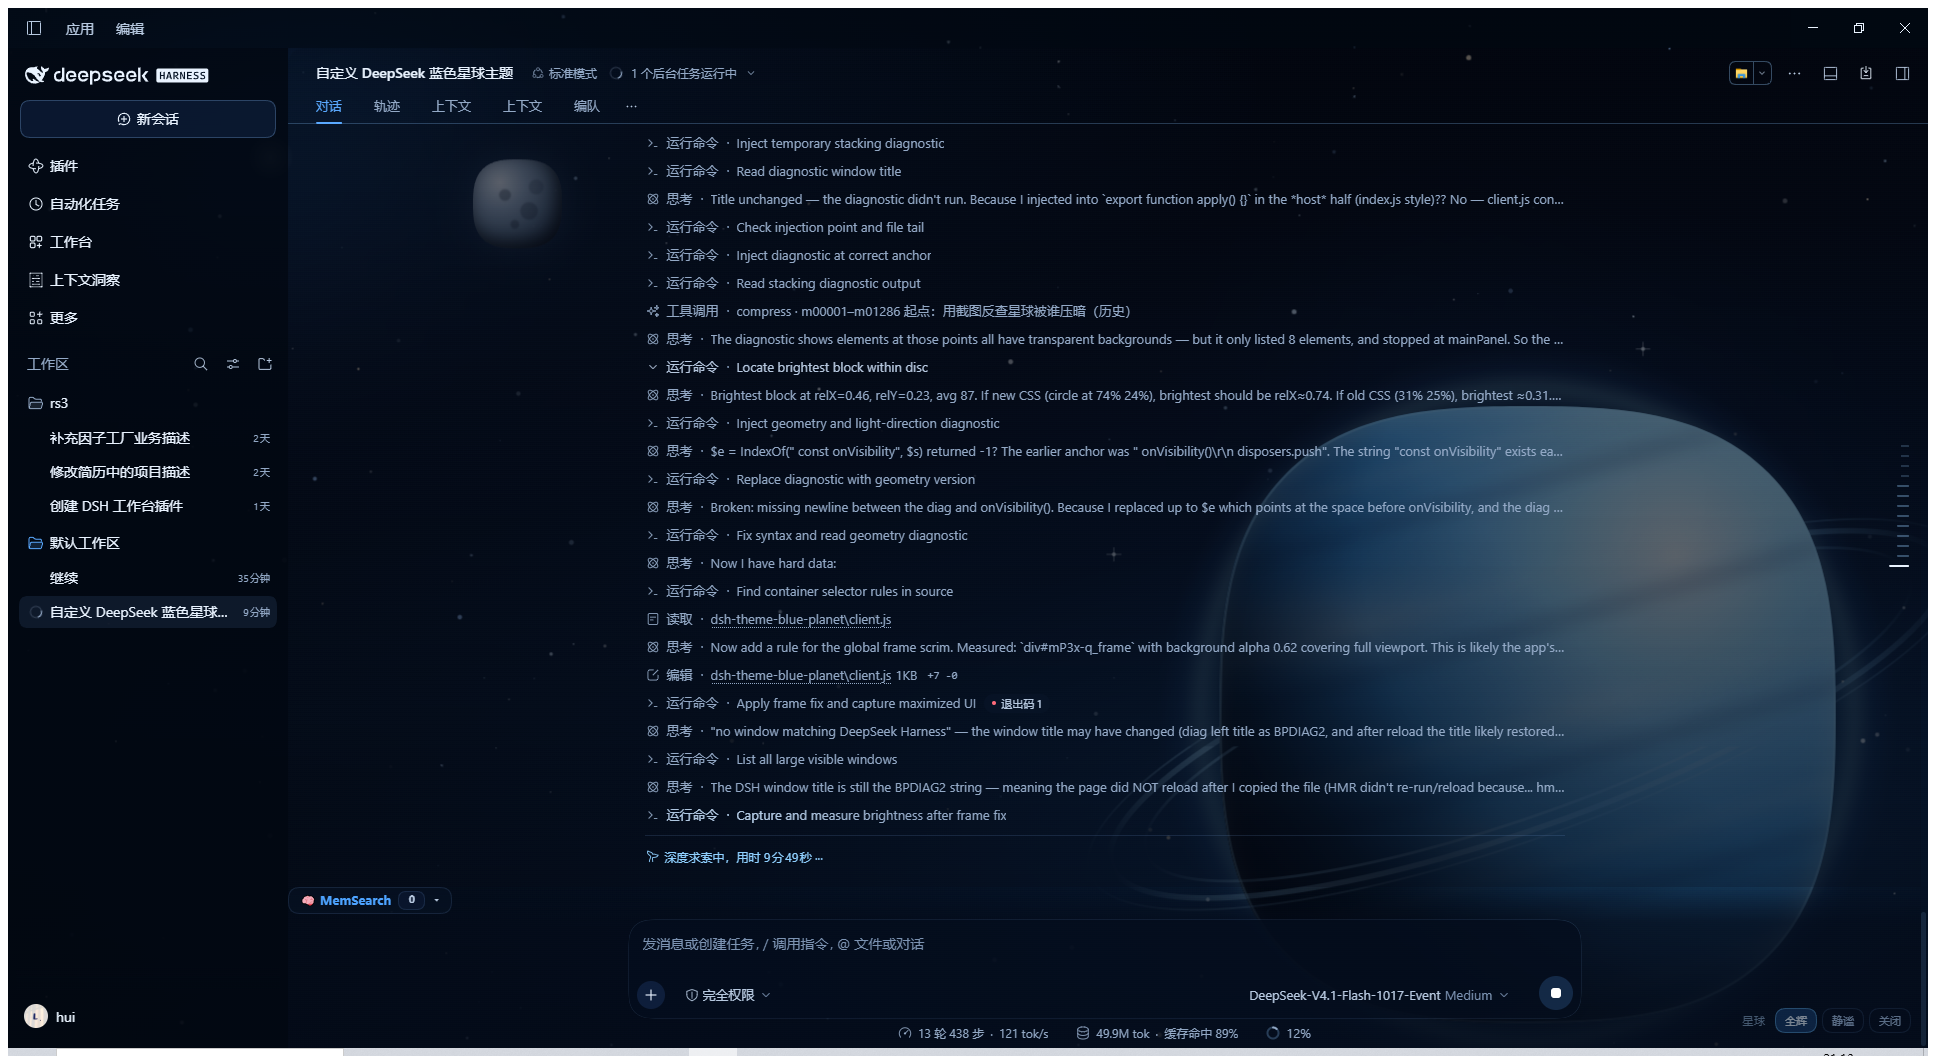
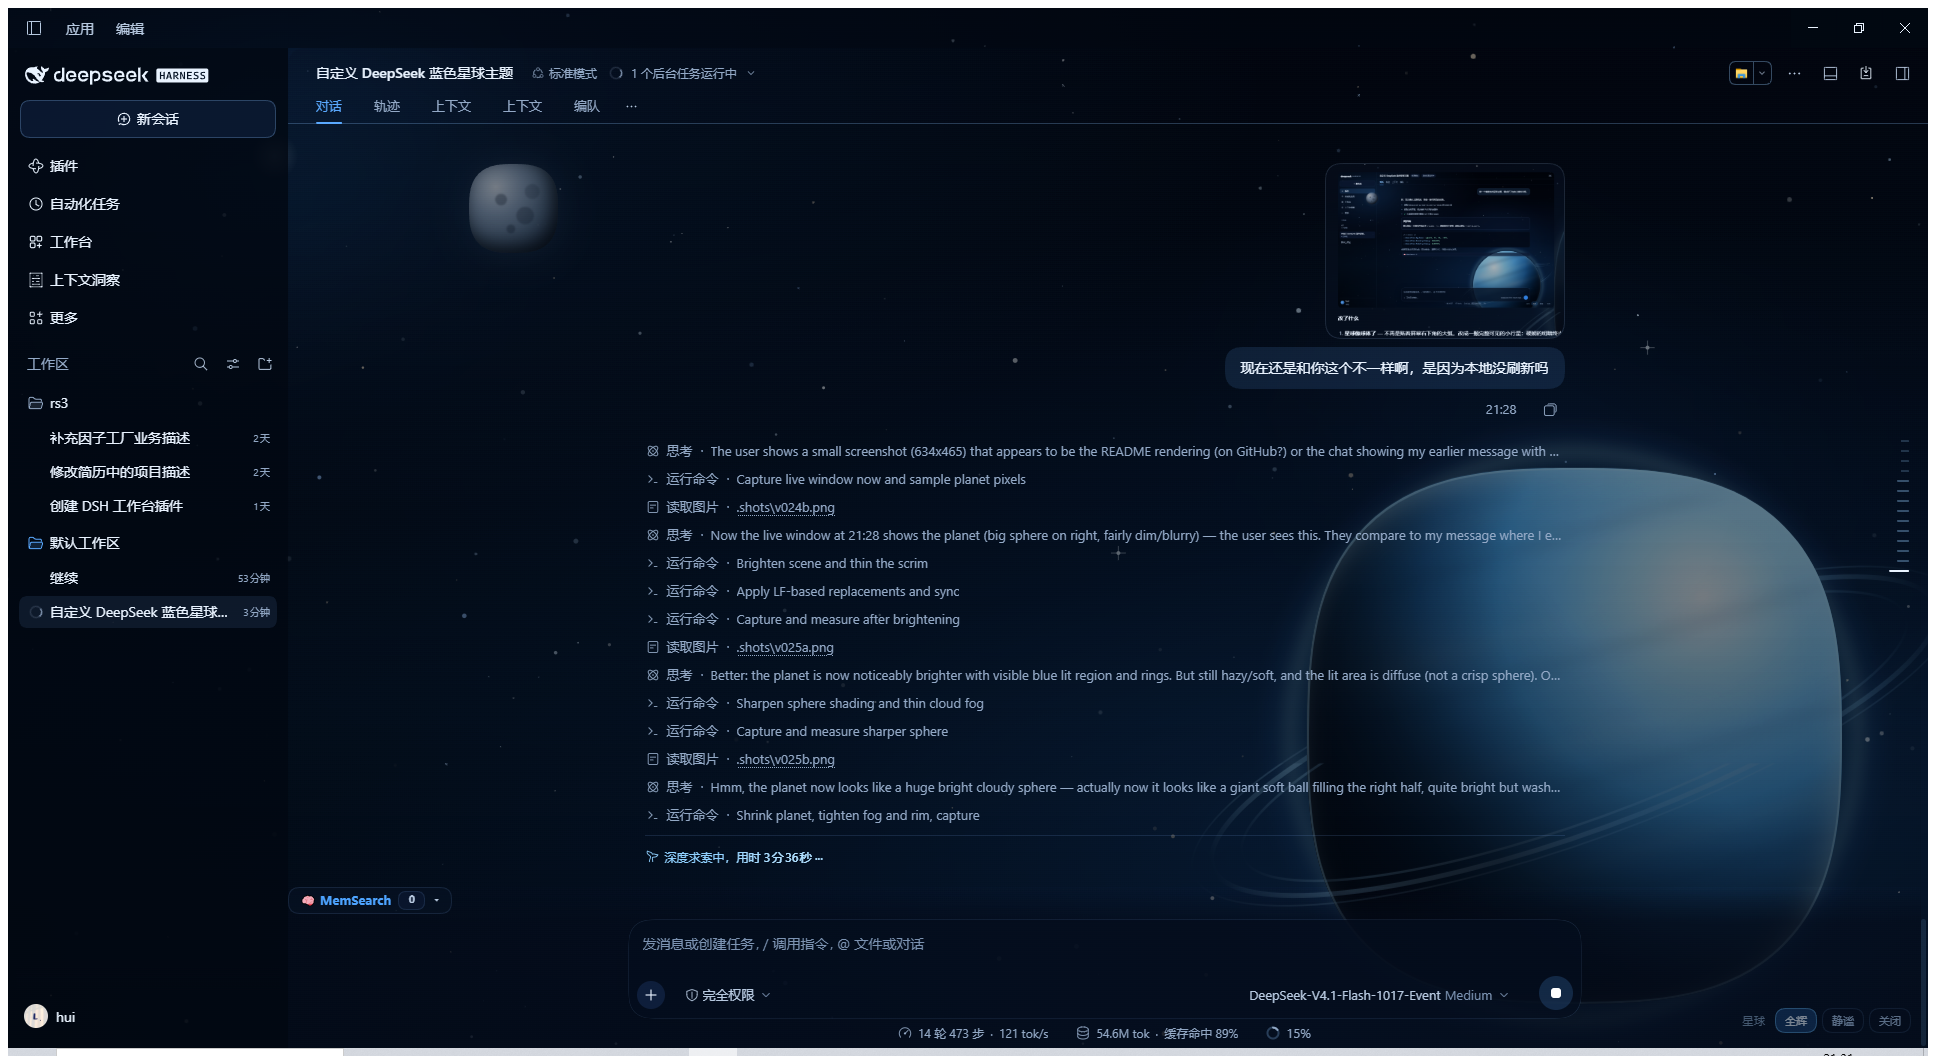
v0.2.5: brighter, crisper sphere; thinner scrim (10%) and less cloud fog

diff --git a/client.js b/client.js
@@ -212,7 +212,7 @@ html body div[class*="centerCol"] div[class$="_root"] {
    the whole scene down to ~38%, which is why the planet looked like a black
    ball. Keep just enough tint to hold the edges, let the art through. */
 html body div[class$="_frame"] {
-  background-color: rgba(3, 9, 20, 0.20) !important;
+  background-color: rgba(3, 9, 20, 0.10) !important;
   background-image: none !important;
 }
 ::selection {
@@ -295,10 +295,10 @@ html[data-bp-mode="off"] #${STAGE_ID} { display: none; }
    whole body drifts slowly as if hanging in space. */
 .bp-planet {
   position: absolute;
-  right: 0vmin;
-  bottom: -7vmin;
-  width: 76vmin;
-  height: 76vmin;
+  right: 1vmin;
+  bottom: -3vmin;
+  width: 66vmin;
+  height: 66vmin;
   filter: saturate(1.05);
   animation: bp-float 64s ease-in-out infinite alternate;
 }
@@ -334,16 +334,16 @@ html[data-bp-mode="off"] #${STAGE_ID} { display: none; }
   /* Sphere shading: light from the upper right so the lit face lands in the
      open right margin of the app (the chat column covers the center-left). */
   background: radial-gradient(circle at 74% 24%,
-    #f2fcff 0%,
-    #d3f1ff 7%,
-    #a8e2ff 17%,
-    #6fbdf6 33%,
-    #3a93dd 50%,
-    #1f6ab4 64%,
-    #0d4579 76%,
-    #04203f 82%,
-    #020e20 91%,
-    #010714 100%);
+    #f8feff 0%,
+    #ddf5ff 6%,
+    #b8e9ff 13%,
+    #83cdff 24%,
+    #4fa9ec 37%,
+    #2f80c9 50%,
+    #1a5f9b 63%,
+    #0c3a66 74%,
+    #04203c 84%,
+    #010b18 100%);
   box-shadow:
     inset 0 0 0 1px rgba(170, 226, 255, 0.22),
     inset -14px 18px 70px rgba(185, 235, 255, 0.22);
@@ -372,8 +372,8 @@ html[data-bp-mode="off"] #${STAGE_ID} { display: none; }
       rgba(200, 235, 255, 0) 5.8% 9.1%,
       rgba(8, 36, 80, 0.20) 9.1% 11.2%,
       rgba(200, 235, 255, 0) 11.2% 15.4%);
-  filter: blur(8px);
-  opacity: 0.85;
+  filter: blur(7px);
+  opacity: 0.40;
 }
 .bp-clouds {
   position: absolute;
@@ -383,22 +383,22 @@ html[data-bp-mode="off"] #${STAGE_ID} { display: none; }
     radial-gradient(26% 8% at 61% 50%, rgba(206, 238, 255, 0.40), rgba(130, 195, 255, 0.08) 60%, transparent 76%),
     radial-gradient(16% 6% at 44% 65%, rgba(186, 228, 255, 0.32), transparent 72%),
     radial-gradient(40% 13% at 52% 82%, rgba(160, 210, 255, 0.22), transparent 74%);
-  filter: blur(12px);
-  opacity: 0.85;
+  filter: blur(14px);
+  opacity: 0.26;
   mix-blend-mode: screen;
 }
 .bp-shade {
   position: absolute;
   inset: 0;
   background:
-    radial-gradient(118% 118% at 74% 24%,
+    radial-gradient(112% 112% at 74% 24%,
       rgba(2, 6, 16, 0) 0%,
-      rgba(2, 6, 16, 0) 43%,
-      rgba(2, 6, 16, 0.20) 54%,
-      rgba(2, 6, 16, 0.52) 65%,
-      rgba(1, 4, 12, 0.80) 76%,
-      rgba(0, 2, 8, 0.93) 87%,
-      rgba(0, 2, 8, 0.97) 100%),
+      rgba(2, 6, 16, 0) 34%,
+      rgba(2, 6, 16, 0.26) 46%,
+      rgba(2, 6, 16, 0.60) 58%,
+      rgba(1, 4, 12, 0.86) 70%,
+      rgba(0, 2, 8, 0.95) 82%,
+      rgba(0, 2, 8, 0.98) 100%),
     linear-gradient(230deg,
       transparent 40%,
       rgba(0, 3, 10, 0.18) 58%,
@@ -410,8 +410,9 @@ html[data-bp-mode="off"] #${STAGE_ID} { display: none; }
   inset: 0;
   border-radius: 50%;
   box-shadow:
-    inset -7px 9px 24px rgba(196, 238, 255, 0.30),
-    inset 0 0 0 2px rgba(160, 220, 255, 0.32);
+    inset -8px 10px 26px rgba(210, 244, 255, 0.42),
+    inset 0 0 0 2px rgba(170, 226, 255, 0.46),
+    0 0 3.2vmin rgba(90, 175, 255, 0.22);
 }
 
 /* A tilted icy ring. The lower half is a second copy clipped to pass in
@@ -502,9 +503,9 @@ html[data-bp-mode="off"] #${STAGE_ID} { display: none; }
       rgba(1, 4, 10, 0.10) 56%,
       rgba(1, 4, 10, 0.34) 100%),
     linear-gradient(180deg,
-      rgba(1, 4, 10, 0.20) 0%,
-      rgba(1, 4, 10, 0.06) 30%,
-      rgba(1, 4, 10, 0.24) 100%);
+      rgba(1, 4, 10, 0.12) 0%,
+      rgba(1, 4, 10, 0.04) 30%,
+      rgba(1, 4, 10, 0.16) 100%);
 }
 
 /* Mode switching eases instead of snapping. */
